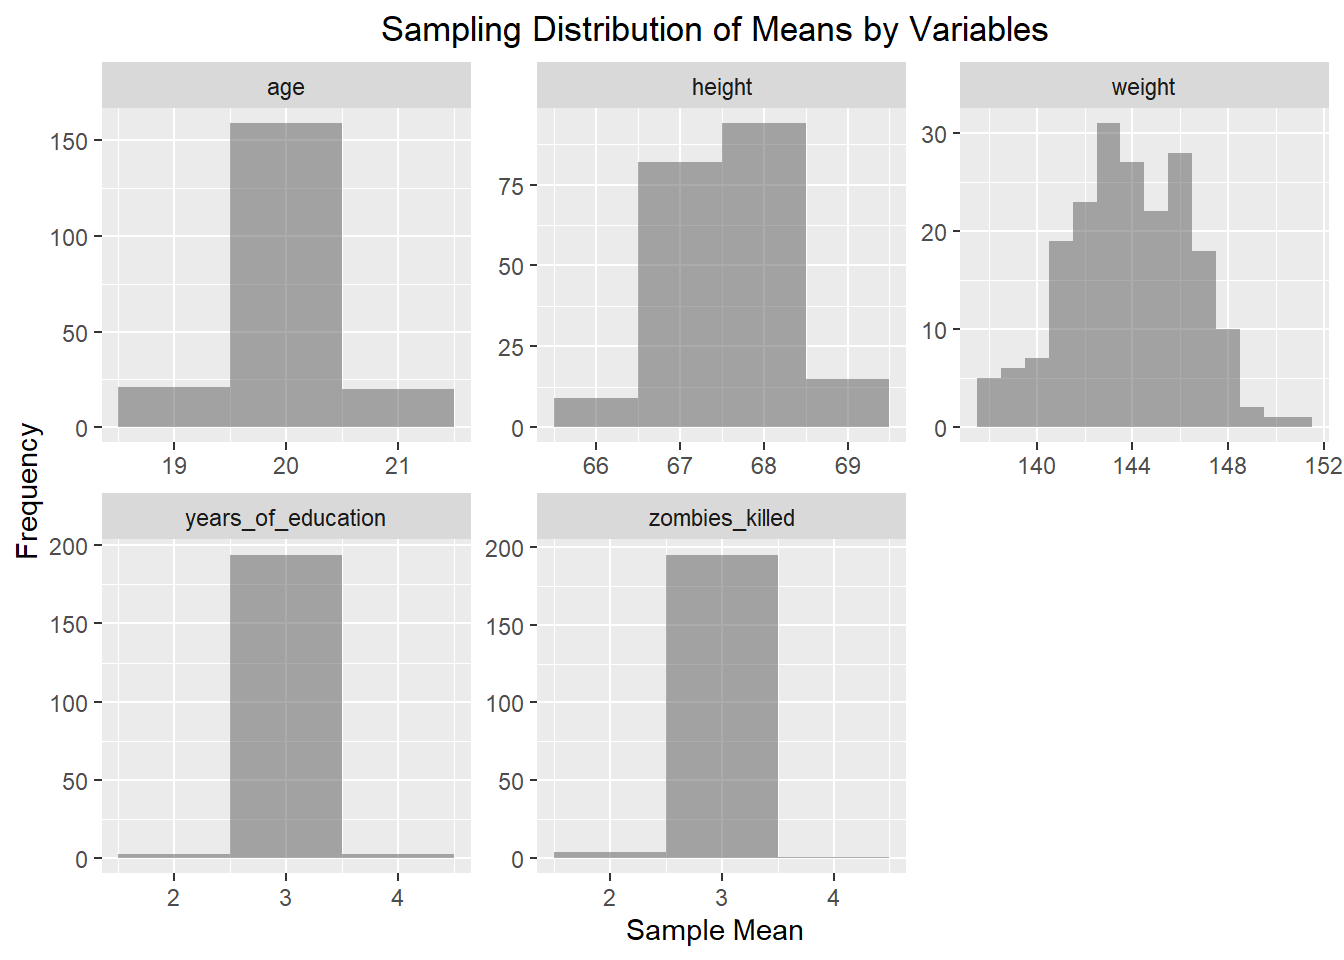
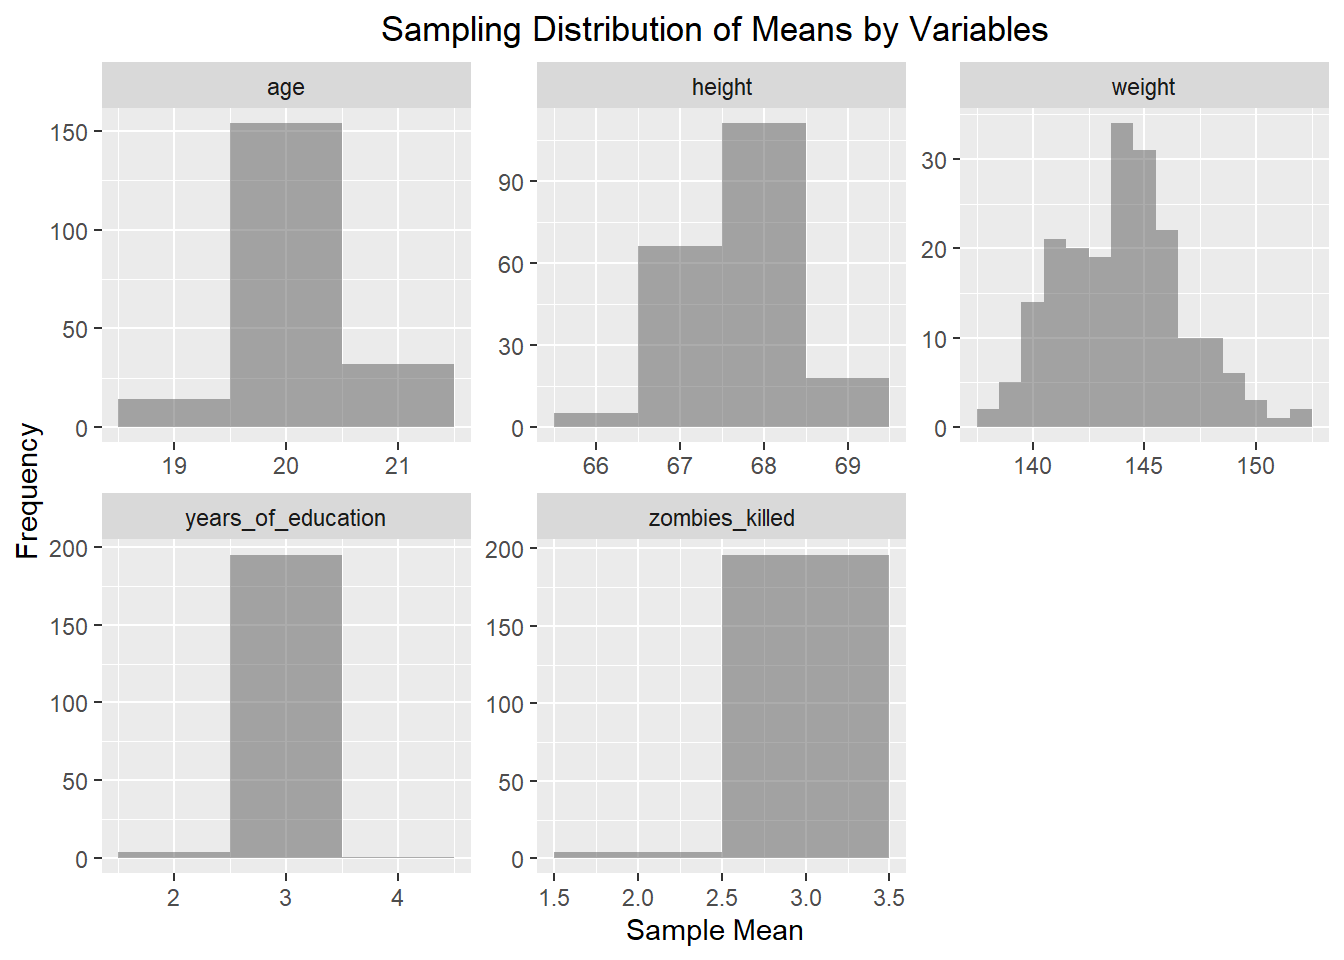
Commit Last

diff --git a/Exercise-05.html b/Exercise-05.html
@@ -199,12 +199,12 @@ min(runtimeMinutes))/10), : Ignoring unknown aesthetics: binwidth</code></pre>
 <pre><code># A tibble: 6 × 3
   Decade sample_mean sample_sd
    &lt;dbl&gt;       &lt;dbl&gt;     &lt;dbl&gt;
-1   1920        96.1      25.6
-2   1930        92        18.3
-3   1940       101.       18.5
-4   1950        98.4      17.4
-5   1960       105.       19.9
-6   1970       106.       17.3</code></pre>
+1   1920        96.6      26.2
+2   1930        90.8      18.1
+3   1940        97.8      19.8
+4   1950        96.5      21.5
+5   1960       104.       19.0
+6   1970       101.       15.5</code></pre>
 </div>
 </div>
 </section>
@@ -218,12 +218,12 @@ min(runtimeMinutes))/10), : Ignoring unknown aesthetics: binwidth</code></pre>
 <pre><code># A tibble: 6 × 4
   Decade sample_mean sample_sd sample_se
    &lt;dbl&gt;       &lt;dbl&gt;     &lt;dbl&gt;     &lt;dbl&gt;
-1   1920        96.1      25.6      2.56
-2   1930        92        18.3      1.83
-3   1940       101.       18.5      1.85
-4   1950        98.4      17.4      1.74
-5   1960       105.       19.9      1.99
-6   1970       106.       17.3      1.73</code></pre>
+1   1920        96.6      26.2      2.62
+2   1930        90.8      18.1      1.81
+3   1940        97.8      19.8      1.98
+4   1950        96.5      21.5      2.15
+5   1960       104.       19.0      1.90
+6   1970       101.       15.5      1.55</code></pre>
 </div>
 </div>
 </section>
@@ -239,20 +239,20 @@ min(runtimeMinutes))/10), : Ignoring unknown aesthetics: binwidth</code></pre>
 <span id="cb15-7"><a href="#cb15-7" aria-hidden="true" tabindex="-1"></a>Compare_Table <span class="ot">&lt;-</span> <span class="fu">merge</span>(Results, Sample, <span class="at">by =</span> <span class="st">"Decade"</span>)</span>
 <span id="cb15-8"><a href="#cb15-8" aria-hidden="true" tabindex="-1"></a><span class="fu">print</span>(Compare_Table)</span></code><button title="Copy to Clipboard" class="code-copy-button"><i class="bi"></i></button></pre></div>
 <div class="cell-output cell-output-stdout">
-<pre><code>  Decade  pop_mean   pop_sd   pop_se     z_score   p_score sample_mean
-1   1920  96.25658 26.20133 2.620133 -0.06357651 0.9493074       96.09
-2   1930  90.30000 17.28879 1.728879  0.98329610 0.3254617       92.00
-3   1940  97.20332 19.12372 1.912372  1.87551139 0.0607224      100.79
-4   1950  98.94820 19.20646 1.920646 -0.31145571 0.7554542       98.35
-5   1960 105.58586 21.23202 2.123202 -0.39838814 0.6903441      104.74
-6   1970 103.75000 17.95934 1.795934  1.21942136 0.2226843      105.94
-  sample_sd sample_se
-1  25.63422  2.563422
-2  18.25853  1.825853
-3  18.47482  1.847482
-4  17.39870  1.739870
-5  19.94873  1.994873
-6  17.29005  1.729005</code></pre>
+<pre><code>  Decade  pop_mean   pop_sd   pop_se    z_score   p_score sample_mean sample_sd
+1   1920  96.25658 26.20133 2.620133  0.1501531 0.8806439       96.65  26.17940
+2   1930  90.30000 17.28879 1.728879  0.3065570 0.7591806       90.83  18.05047
+3   1940  97.20332 19.12372 1.912372  0.2910915 0.7709813       97.76  19.83473
+4   1950  98.94820 19.20646 1.920646 -1.2798799 0.2005874       96.49  21.53667
+5   1960 105.58586 21.23202 2.123202 -0.9541525 0.3400065      103.56  18.97171
+6   1970 103.75000 17.95934 1.795934 -1.3586247 0.1742655      101.31  15.54901
+  sample_se
+1  2.617940
+2  1.805047
+3  1.983473
+4  2.153667
+5  1.897171
+6  1.554901</code></pre>
 </div>
 </div>
 <p>I used a z-test to compare the means of runtimeMinutes for the population and the single sample. This gave me z-scores for each decade, which I used to calculate the p-value for the z-score for each decade.</p>
@@ -286,16 +286,16 @@ min(runtimeMinutes))/10), : Ignoring unknown aesthetics: binwidth</code></pre>
 <pre><code># A tibble: 6,000 × 3
    Decade DistSample_mean DistSample_sd
     &lt;dbl&gt;           &lt;dbl&gt;         &lt;dbl&gt;
- 1   1920            94.8          26.2
- 2   1920            94.6          25.5
- 3   1920            94.8          25.5
- 4   1920            95            25.5
- 5   1920            97.4          26.7
- 6   1920            95.8          25.1
- 7   1920            97.4          27.0
- 8   1920            95.3          24.3
- 9   1920            96.7          27.1
-10   1920            96.4          26.7
+ 1   1920            99            27.7
+ 2   1920            95.6          24.8
+ 3   1920            97.7          28.0
+ 4   1920            95.6          25.0
+ 5   1920            94.8          24.0
+ 6   1920            93.0          23.6
+ 7   1920            95.8          27.6
+ 8   1920            96.4          26.1
+ 9   1920            95.2          25.5
+10   1920            99.0          26.6
 # ℹ 5,990 more rows</code></pre>
 </div>
 </div>
@@ -314,12 +314,12 @@ min(runtimeMinutes))/10), : Ignoring unknown aesthetics: binwidth</code></pre>
 <pre><code># A tibble: 6 × 3
   Decade distributionsample_mean distributionsample_sd
    &lt;dbl&gt;                   &lt;dbl&gt;                 &lt;dbl&gt;
-1   1920                    96.3                  1.54
-2   1930                    90.3                  1.56
-3   1940                    97.3                  1.74
-4   1950                    98.9                  1.83
-5   1960                   106.                   2.06
-6   1970                   104.                   1.72</code></pre>
+1   1920                    96.3                  1.52
+2   1930                    90.3                  1.53
+3   1940                    97.2                  1.77
+4   1950                    99.0                  1.79
+5   1960                   106.                   2.05
+6   1970                   104.                   1.87</code></pre>
 </div>
 <div class="sourceCode cell-code" id="cb21"><pre class="sourceCode r code-with-copy"><code class="sourceCode r"><span id="cb21-1"><a href="#cb21-1" aria-hidden="true" tabindex="-1"></a>Histogram2 <span class="ot">&lt;-</span> <span class="fu">ggplot</span>(DistSample, <span class="fu">aes</span>(<span class="at">x =</span> DistSample_mean)) <span class="sc">+</span></span>
 <span id="cb21-2"><a href="#cb21-2" aria-hidden="true" tabindex="-1"></a>  <span class="fu">geom_histogram</span>(<span class="fu">aes</span>(</span>
@@ -389,12 +389,12 @@ Ignoring unknown aesthetics: binwidth</code></pre>
 <pre><code># A tibble: 6 × 10
   Decade pop_mean sample_mean distributionsample_mean z_pop_sample p_pop_sample
    &lt;dbl&gt;    &lt;dbl&gt;       &lt;dbl&gt;                   &lt;dbl&gt;        &lt;dbl&gt;        &lt;dbl&gt;
-1   1920     96.3        96.1                    96.3      -0.0636       0.949 
-2   1930     90.3        92                      90.3       0.983        0.325 
-3   1940     97.2       101.                     97.3       1.88         0.0607
-4   1950     98.9        98.4                    98.9      -0.311        0.755 
-5   1960    106.        105.                    106.       -0.398        0.690 
-6   1970    104.        106.                    104.        1.22         0.223 
+1   1920     96.3        96.6                    96.3        0.150        0.881
+2   1930     90.3        90.8                    90.3        0.307        0.759
+3   1940     97.2        97.8                    97.2        0.291        0.771
+4   1950     98.9        96.5                    99.0       -1.28         0.201
+5   1960    106.        104.                    106.        -0.954        0.340
+6   1970    104.        101.                    104.        -1.36         0.174
 # ℹ 4 more variables: z_pop_dist &lt;dbl&gt;, p_pop_dist &lt;dbl&gt;, z_sample_dist &lt;dbl&gt;,
 #   p_sample_dist &lt;dbl&gt;</code></pre>
 </div>
@@ -568,18 +568,18 @@ dbl (6): id, height, weight, zombies_killed, years_of_education, age
 <span id="cb40-6"><a href="#cb40-6" aria-hidden="true" tabindex="-1"></a><span class="fu">print</span>(z_single)</span></code><button title="Copy to Clipboard" class="code-copy-button"><i class="bi"></i></button></pre></div>
 <div class="cell-output cell-output-stdout">
 <pre><code># A tibble: 250 × 7
-      id first_name last_name gender major     variable           value
-   &lt;dbl&gt; &lt;chr&gt;      &lt;chr&gt;     &lt;chr&gt;  &lt;chr&gt;     &lt;chr&gt;              &lt;dbl&gt;
- 1    65 Gary       Morris    Male   education height              73.0
- 2    65 Gary       Morris    Male   education weight             155. 
- 3    65 Gary       Morris    Male   education zombies_killed       4  
- 4    65 Gary       Morris    Male   education years_of_education   0  
- 5    65 Gary       Morris    Male   education age                 19.8
- 6    19 Jose       Ramirez   Male   economics height              74.8
- 7    19 Jose       Ramirez   Male   economics weight             146. 
- 8    19 Jose       Ramirez   Male   economics zombies_killed       2  
- 9    19 Jose       Ramirez   Male   economics years_of_education   1  
-10    19 Jose       Ramirez   Male   economics age                 24.0
+      id first_name last_name gender major             variable           value
+   &lt;dbl&gt; &lt;chr&gt;      &lt;chr&gt;     &lt;chr&gt;  &lt;chr&gt;             &lt;chr&gt;              &lt;dbl&gt;
+ 1   348 Deborah    Lawrence  Female botany            height              71.1
+ 2   348 Deborah    Lawrence  Female botany            weight             156. 
+ 3   348 Deborah    Lawrence  Female botany            zombies_killed       3  
+ 4   348 Deborah    Lawrence  Female botany            years_of_education   3  
+ 5   348 Deborah    Lawrence  Female botany            age                 23.9
+ 6   890 Craig      Thompson  Male   military strategy height              67.5
+ 7   890 Craig      Thompson  Male   military strategy weight             147. 
+ 8   890 Craig      Thompson  Male   military strategy zombies_killed       6  
+ 9   890 Craig      Thompson  Male   military strategy years_of_education   3  
+10   890 Craig      Thompson  Male   military strategy age                 21.3
 # ℹ 240 more rows</code></pre>
 </div>
 <div class="sourceCode cell-code" id="cb42"><pre class="sourceCode r code-with-copy"><code class="sourceCode r"><span id="cb42-1"><a href="#cb42-1" aria-hidden="true" tabindex="-1"></a>z_single_results <span class="ot">&lt;-</span> z_single <span class="sc">%&gt;%</span></span>
@@ -597,11 +597,11 @@ dbl (6): id, height, weight, zombies_killed, years_of_education, age
 <pre><code># A tibble: 5 × 6
   variable  z_single_m z_single_sd z_single_se z_single_95ci_lo z_single_95ci_up
   &lt;chr&gt;          &lt;dbl&gt;       &lt;dbl&gt;       &lt;dbl&gt;            &lt;dbl&gt;            &lt;dbl&gt;
-1 age            20.4         2.91       0.412            19.6             21.2 
-2 height         68.3         4.00       0.565            67.2             69.4 
-3 weight        143.         16.9        2.39            139.             148.  
-4 years_of…       3           1.64       0.232             2.55             3.45
-5 zombies_…       3.06        1.67       0.236             2.60             3.52</code></pre>
+1 age            19.7         2.90       0.410            18.9             20.5 
+2 height         67.6         3.84       0.543            66.5             68.7 
+3 weight        145.         15.9        2.25            140.             149.  
+4 years_of…       3.34        1.70       0.240             2.87             3.81
+5 zombies_…       3.04        1.78       0.252             2.55             3.53</code></pre>
 </div>
 </div>
 </section>
@@ -637,16 +637,16 @@ dbl (6): id, height, weight, zombies_killed, years_of_education, age
 <pre><code># A tibble: 1,000 × 3
    variable           z_sampling_m z_sampling_sd
    &lt;chr&gt;                     &lt;dbl&gt;         &lt;dbl&gt;
- 1 age                       19.2           2.30
- 2 height                    66.4           3.81
- 3 weight                   139.           17.8 
- 4 years_of_education         3             1.75
- 5 zombies_killed             2.58          1.64
- 6 age                       20.1           2.40
- 7 height                    67.5           3.89
- 8 weight                   143.           16.6 
- 9 years_of_education         3.3           1.53
-10 zombies_killed             3.12          1.99
+ 1 age                       20.7           3.28
+ 2 height                    67.6           4.34
+ 3 weight                   140.           17.3 
+ 4 years_of_education         2.94          1.66
+ 5 zombies_killed             3.12          1.62
+ 6 age                       19.5           2.41
+ 7 height                    67.9           3.31
+ 8 weight                   146.           15.8 
+ 9 years_of_education         3.28          1.62
+10 zombies_killed             2.66          1.48
 # ℹ 990 more rows</code></pre>
 </div>
 <div class="sourceCode cell-code" id="cb46"><pre class="sourceCode r code-with-copy"><code class="sourceCode r"><span id="cb46-1"><a href="#cb46-1" aria-hidden="true" tabindex="-1"></a>z_single_results <span class="ot">&lt;-</span> z_single_results <span class="sc">%&gt;%</span></span>
@@ -665,11 +665,11 @@ dbl (6): id, height, weight, zombies_killed, years_of_education, age
 <pre><code># A tibble: 5 × 3
   variable           z_sampling_results_m z_sampling_results_sd
   &lt;chr&gt;                             &lt;dbl&gt;                 &lt;dbl&gt;
-1 age                               20.0                  0.300
-2 height                            67.6                  0.427
-3 weight                           144.                   1.92 
-4 years_of_education                 3.02                 0.156
-5 zombies_killed                     2.97                 0.178</code></pre>
+1 age                               20.1                  0.287
+2 height                            67.7                  0.411
+3 weight                           144.                   1.73 
+4 years_of_education                 3.00                 0.156
+5 zombies_killed                     3.00                 0.191</code></pre>
 </div>
 <div class="sourceCode cell-code" id="cb48"><pre class="sourceCode r code-with-copy"><code class="sourceCode r"><span id="cb48-1"><a href="#cb48-1" aria-hidden="true" tabindex="-1"></a>z_scores <span class="ot">&lt;-</span> z_sampling_results <span class="sc">%&gt;%</span></span>
 <span id="cb48-2"><a href="#cb48-2" aria-hidden="true" tabindex="-1"></a>  <span class="fu">mutate</span>(</span>
@@ -681,11 +681,11 @@ dbl (6): id, height, weight, zombies_killed, years_of_education, age
 <pre><code># A tibble: 5 × 4
   variable           z_sampling_results_m z_sampling_results_sd z_score
   &lt;chr&gt;                             &lt;dbl&gt;                 &lt;dbl&gt;   &lt;dbl&gt;
-1 age                               20.0                  0.300 -0.840 
-2 height                            67.6                  0.427 -1.21  
-3 weight                           144.                   1.92   0.208 
-4 years_of_education                 3.02                 0.156  0.0866
-5 zombies_killed                     2.97                 0.178 -0.374 </code></pre>
+1 age                               20.1                  0.287   0.920
+2 height                            67.7                  0.411   0.177
+3 weight                           144.                   1.73   -0.241
+4 years_of_education                 3.00                 0.156  -1.43 
+5 zombies_killed                     3.00                 0.191  -0.166</code></pre>
 </div>
 <div class="sourceCode cell-code" id="cb50"><pre class="sourceCode r code-with-copy"><code class="sourceCode r"><span id="cb50-1"><a href="#cb50-1" aria-hidden="true" tabindex="-1"></a>z_final_tibble <span class="ot">&lt;-</span> z_sampling_results <span class="sc">%&gt;%</span></span>
 <span id="cb50-2"><a href="#cb50-2" aria-hidden="true" tabindex="-1"></a>  <span class="fu">select</span>(variable, z_sampling_results_sd) <span class="sc">%&gt;%</span></span>
@@ -698,11 +698,11 @@ dbl (6): id, height, weight, zombies_killed, years_of_education, age
 <pre><code># A tibble: 5 × 4
   variable           z_sampling_results_sd z_single_se z_score
   &lt;chr&gt;                              &lt;dbl&gt;       &lt;dbl&gt;   &lt;dbl&gt;
-1 age                                0.300       0.412 -0.840 
-2 height                             0.427       0.565 -1.21  
-3 weight                             1.92        2.39   0.208 
-4 years_of_education                 0.156       0.232  0.0866
-5 zombies_killed                     0.178       0.236 -0.374 </code></pre>
+1 age                                0.287       0.410   0.920
+2 height                             0.411       0.543   0.177
+3 weight                             1.73        2.25   -0.241
+4 years_of_education                 0.156       0.240  -1.43 
+5 zombies_killed                     0.191       0.252  -0.166</code></pre>
 </div>
 </div>
 <p>The means and Standard deviations of each variable of the sample distribution can be seen in the tibble called “z_sampling_results.” Generally, the standard deviation values for all variables of the distribution sample are barely above 0 (only a few decimal points) and the standard error for all variables of the single sample are also barely above 0. The only exception to both of these calculations are the values relating to the variable weight.</p>
@@ -760,11 +760,11 @@ dbl (6): id, height, weight, zombies_killed, years_of_education, age
 <pre><code># A tibble: 5 × 5
   variable           z_sampling_results_m z_sampling_results_sd z_sampling_ci_lo
   &lt;chr&gt;                             &lt;dbl&gt;                 &lt;dbl&gt;            &lt;dbl&gt;
-1 age                               20.0                  0.300            19.3 
-2 height                            67.6                  0.427            66.4 
-3 weight                           144.                   1.92            139.  
-4 years_of_education                 3.02                 0.156             2.60
-5 zombies_killed                     2.97                 0.178             2.56
+1 age                               20.1                  0.287            19.3 
+2 height                            67.7                  0.411            66.5 
+3 weight                           144.                   1.73            139.  
+4 years_of_education                 3.00                 0.156             2.60
+5 zombies_killed                     3.00                 0.191             2.52
 # ℹ 1 more variable: z_sampling_ci_up &lt;dbl&gt;</code></pre>
 </div>
 <div class="sourceCode cell-code" id="cb56"><pre class="sourceCode r code-with-copy"><code class="sourceCode r"><span id="cb56-1"><a href="#cb56-1" aria-hidden="true" tabindex="-1"></a><span class="fu">print</span>(z_single_results)</span></code><button title="Copy to Clipboard" class="code-copy-button"><i class="bi"></i></button></pre></div>
@@ -772,14 +772,17 @@ dbl (6): id, height, weight, zombies_killed, years_of_education, age
 <pre><code># A tibble: 5 × 6
   variable  z_single_m z_single_sd z_single_se z_single_95ci_lo z_single_95ci_up
   &lt;chr&gt;          &lt;dbl&gt;       &lt;dbl&gt;       &lt;dbl&gt;            &lt;dbl&gt;            &lt;dbl&gt;
-1 age            20.4         2.91       0.412            19.6             21.2 
-2 height         68.3         4.00       0.565            67.2             69.4 
-3 weight        143.         16.9        2.39            139.             148.  
-4 years_of…       3           1.64       0.232             2.55             3.45
-5 zombies_…       3.06        1.67       0.236             2.60             3.52</code></pre>
+1 age            19.7         2.90       0.410            18.9             20.5 
+2 height         67.6         3.84       0.543            66.5             68.7 
+3 weight        145.         15.9        2.25            140.             149.  
+4 years_of…       3.34        1.70       0.240             2.87             3.81
+5 zombies_…       3.04        1.78       0.252             2.55             3.53</code></pre>
 </div>
 </div>
-<p>Although the CIs for each variable are very different, none of the CIs are very wide, therefore the estimate appears to be quite precise.</p>
+<p>Although the CIs for each variable are very different, none of the CIs are very wide, therefore the estimate appears to be quite precise. Interestingly, the CIs for the single sample and for the sampling distribution are quite similar.</p>
+</section>
+<section id="step-10-bootstrapping" class="level2">
+<h2 class="anchored" data-anchor-id="step-10-bootstrapping">Step 10: Bootstrapping</h2>
 </section>
 </section>
 
